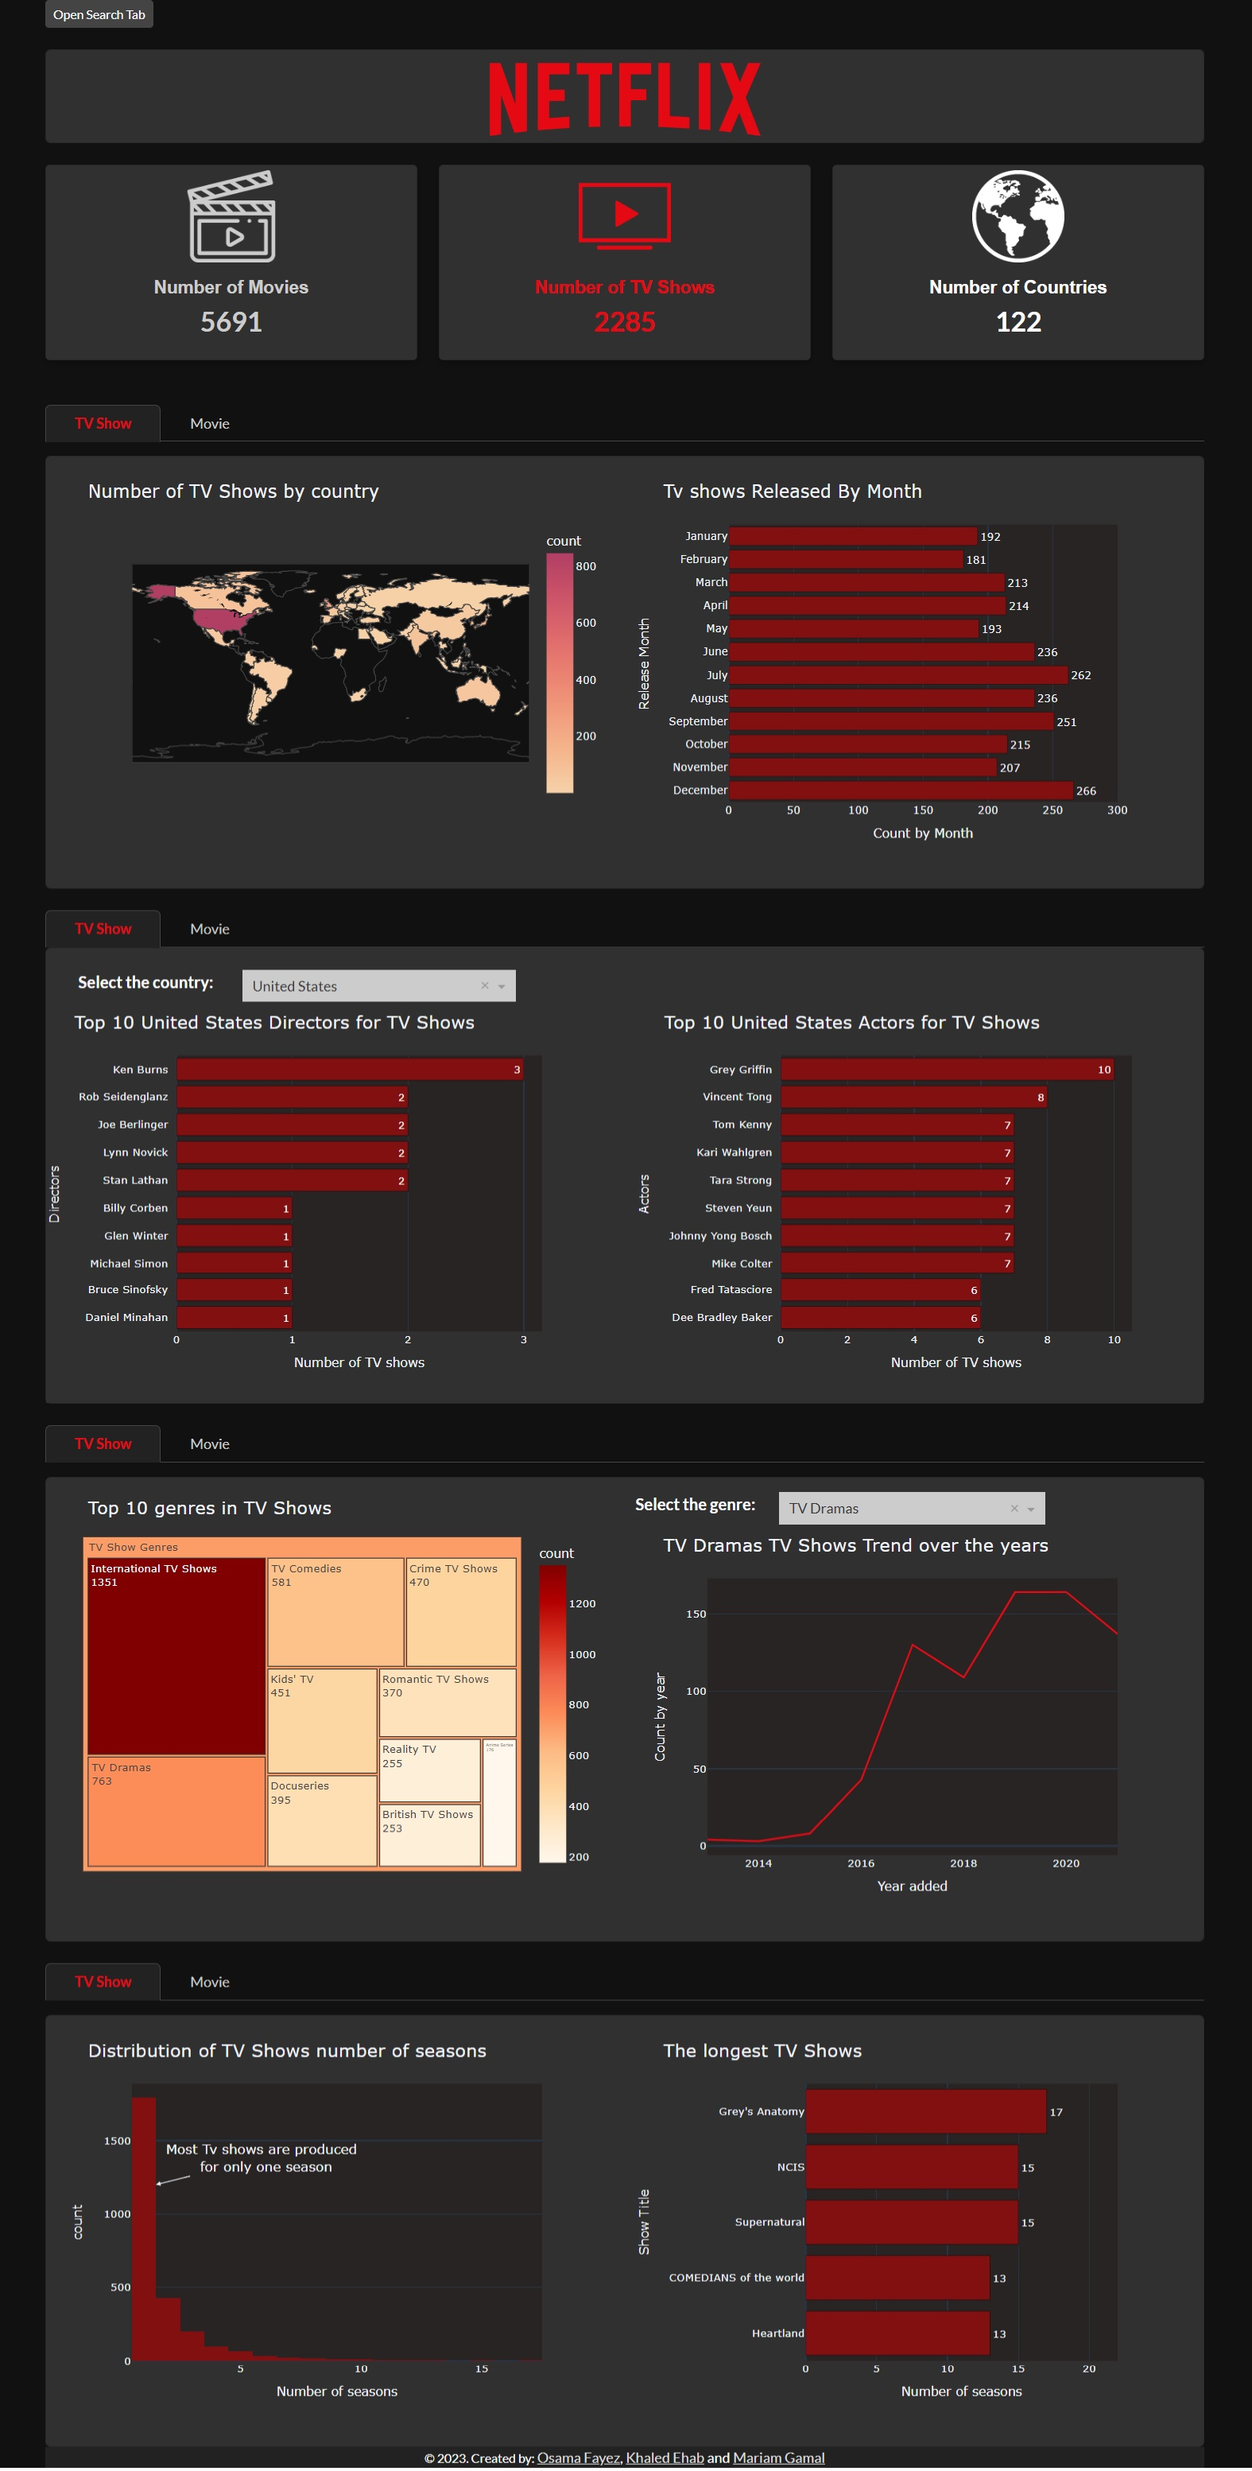
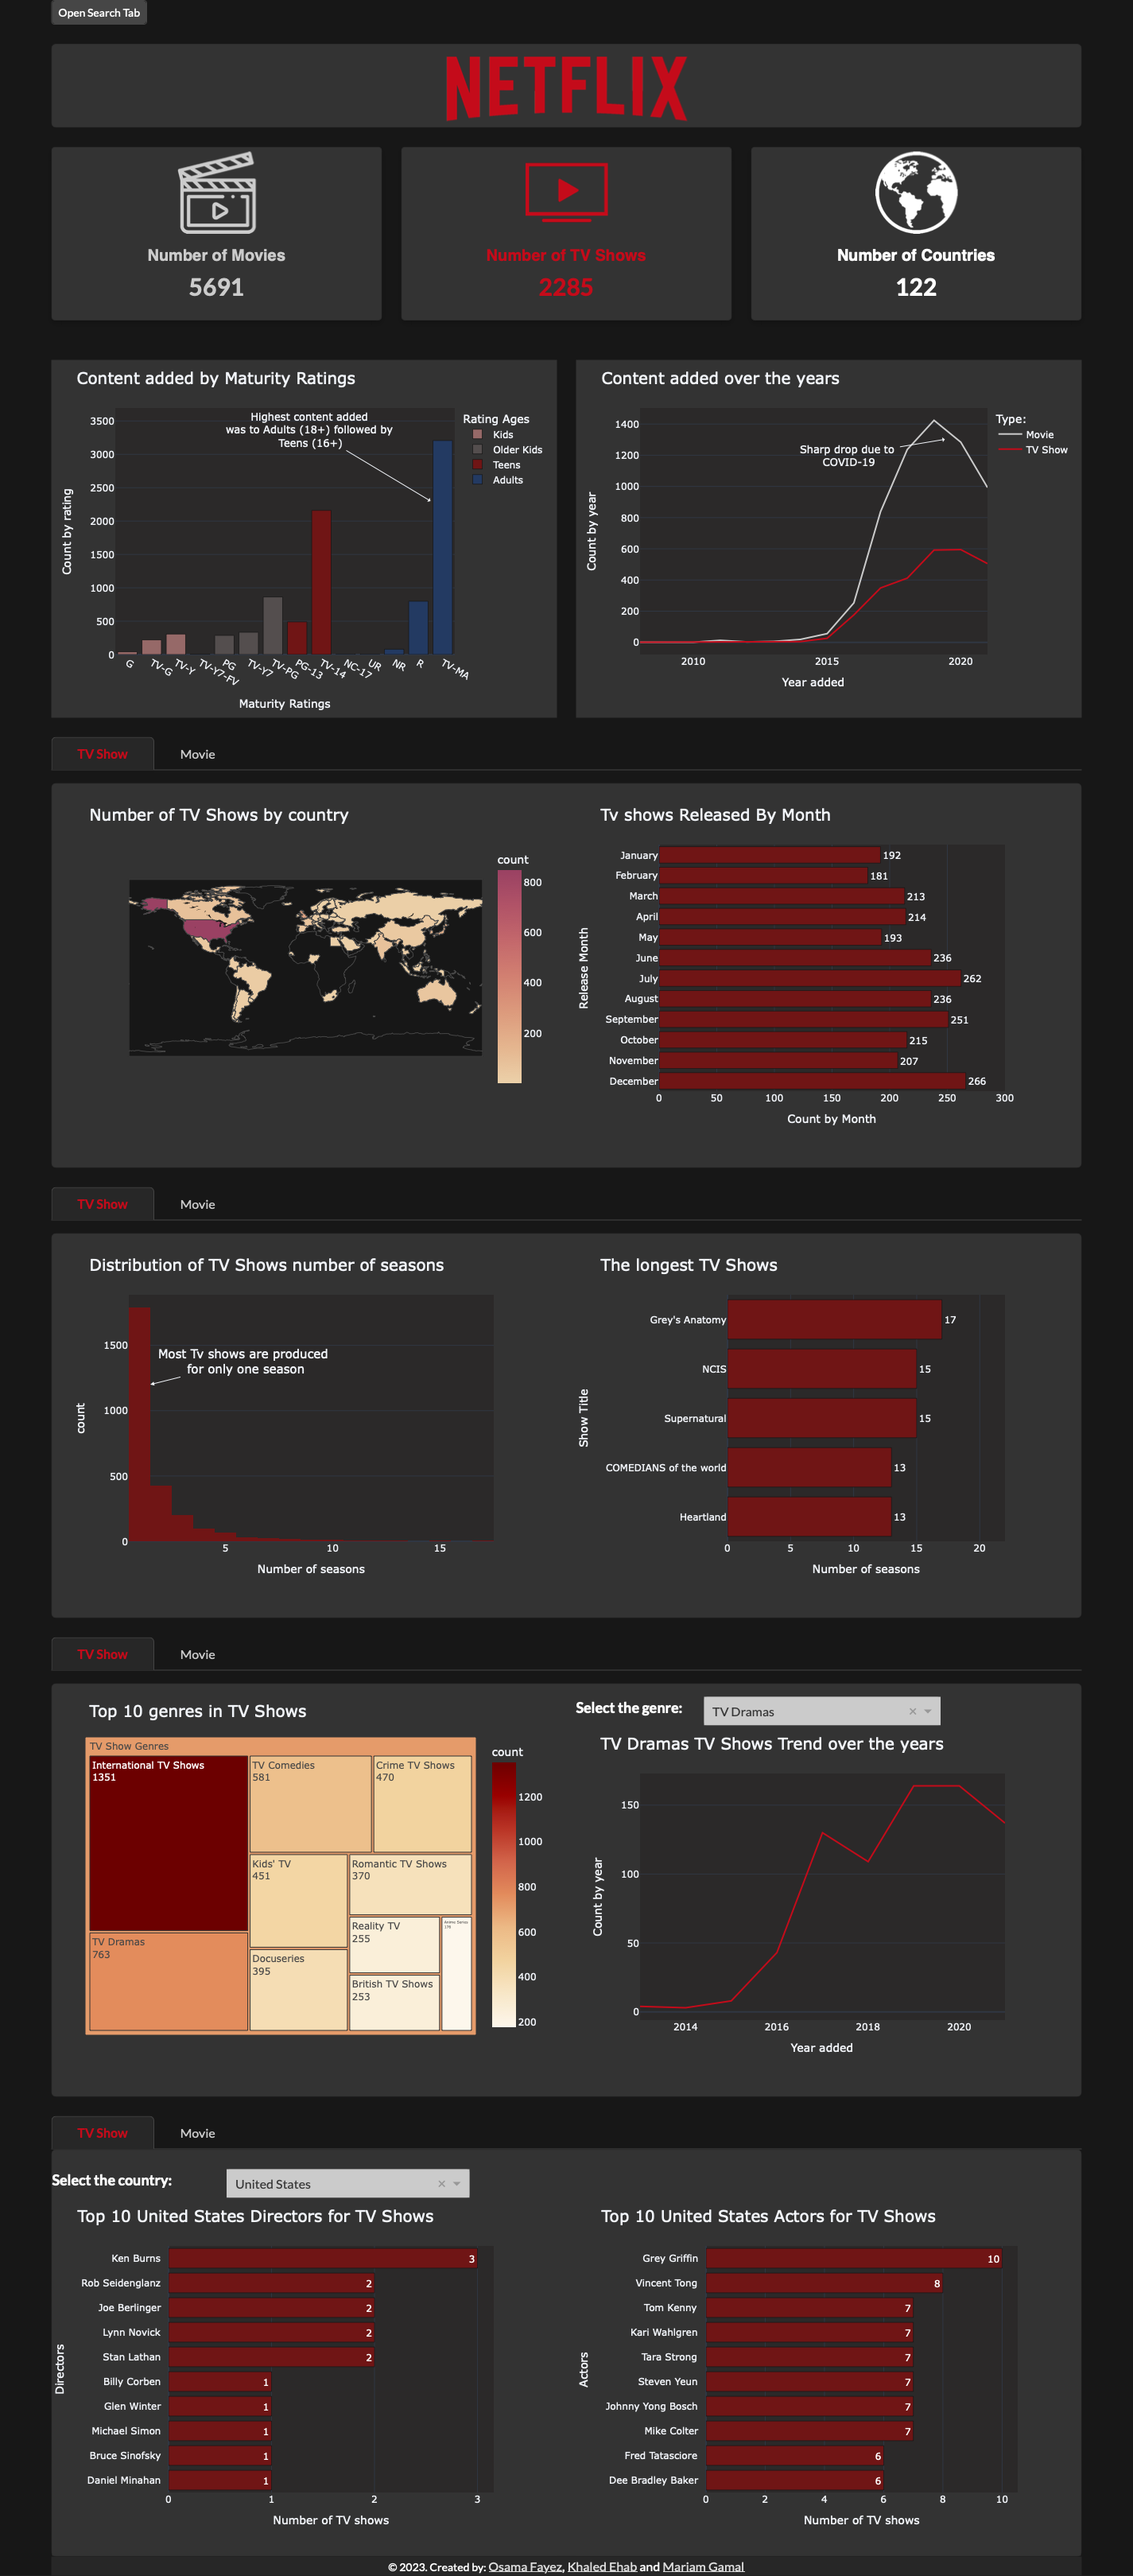
Add files via upload

diff --git a/src/graphs/actors_with_most_content.py b/src/graphs/actors_with_most_content.py
@@ -2,14 +2,12 @@ from const import *
 import plotly.graph_objects as go
 import plotly.express as px
 from collections import Counter
-from dash_bootstrap_templates import load_figure_template
 
 df = df.copy(deep=True)
-load_figure_template("DARKLY")
 
 
 def actors_with_most_content(country, type_="TV Show"):
-    res = df[(df["cast"] != "Missing") & (df["type"] == type_)].copy(deep=True)
+    res = df[(df["cast"] != "Missing") & (df["type"] == type_)]
     res["from_country"] = res["country"].apply(
         lambda x: 1 if country.lower() in x.lower() else 0
     )
@@ -20,26 +18,27 @@ def actors_with_most_content(country, type_="TV Show"):
     labels, values = [tag[0] + "  " for tag in tags], [tag[1] for tag in tags]
 
     if not labels or not values:
-        fig = go.Figure(template='plotly_dark')
+        fig = go.Figure()
         fig.add_annotation(
             x=2.5,
             y=1.5,
             text=f"No available actors names for {country}",
-            font=dict(size=20),
+            font=dict(size=20, color='white'),
             showarrow=False,
         )
+
         fig.update_layout(
-            xaxis=dict(showgrid=False),
-            yaxis=dict(showgrid=False),
+            xaxis=dict(showgrid=False, color='white', zeroline=False),
+            yaxis=dict(showgrid=False, color='white', zeroline=False),
             paper_bgcolor='rgba(48,48,48,1.000)',
             plot_bgcolor="rgba(40,36,36,1.000)",
         )
+
         return fig
 
     if type_ == "Movie":
         color = MOV_COLOR
         x_label = "Number of movies"
-
     else:
         color = SHOW_COLOR
         x_label = "Number of TV shows"

diff --git a/src/graphs/directors_with_most_content.py b/src/graphs/directors_with_most_content.py
@@ -2,14 +2,12 @@ from const import *
 import plotly.graph_objects as go
 import plotly.express as px
 from collections import Counter
-from dash_bootstrap_templates import load_figure_template
 
 df = df.copy(deep=True)
-load_figure_template("DARKLY")
 
 
 def directors_with_most_content(country, type_="TV Show"):
-    res = df[(df["director"] != "Missing") & (df["type"] == type_)].copy(deep=True)
+    res = df[(df["director"] != "Missing") & (df["type"] == type_)]
     res["from_country"] = res["country"].apply(
         lambda x: 1 if country.lower() in x.lower() else 0
     )
@@ -20,22 +18,24 @@ def directors_with_most_content(country, type_="TV Show"):
     labels, values = [tag[0] + "  " for tag in tags], [tag[1] for tag in tags]
 
     if not labels or not values:
-        fig = go.Figure(template='plotly_dark')
+        fig = go.Figure()
 
         fig.add_annotation(
             x=2.5,
             y=1.5,
             text=f"No available directors names for {country}",
-            font=dict(size=20),
+            font=dict(size=20, color='white'),
             showarrow=False,
         )
 
         fig.update_layout(
-            xaxis=dict(showgrid=False),
-            yaxis=dict(showgrid=False),
+            xaxis=dict(showgrid=False, color='white', zeroline=False),
+            yaxis=dict(showgrid=False, color='white', zeroline=False),
             paper_bgcolor='rgba(48,48,48,1.000)',
             plot_bgcolor="rgba(40,36,36,1.000)",
         )
+
+
         return fig
 
     if type_ == "Movie":

diff --git a/src/components/layout.py b/src/components/layout.py
@@ -31,11 +31,11 @@ def create_layout(app):
                 html.Br(),
                 country_month.country_month_tabs(app),
                 html.Br(),
-                directors_actors.directors_actors_tabs(app),
+                dist_longest.dist_longest_tabs(app),
                 html.Br(),
                 treemap_genre.treemap_elem(app),
                 html.Br(),
-                dist_longest.dist_longest_tabs(app),
+                directors_actors.directors_actors_tabs(app),
                 footer.footer(app)
             ]
         ),

diff --git a/src/graphs/content_by_rating.py b/src/graphs/content_by_rating.py
@@ -1,12 +1,11 @@
-import wrangle
 from const import *
-from dash_bootstrap_templates import load_figure_template
+import pandas as pd
+import plotly.express as px
 
 df = df.copy(deep=True)
-load_figure_template("DARKLY")
 
 
-def content_by_rating(self):
+def content_by_rating():
     res = (
         df.groupby(["rating"])
         .size()

diff --git a/netflix_project.py b/netflix_project.py
@@ -1,0 +1,14 @@
+
+import dash_bootstrap_components as dbc
+from dash import Dash
+from src.components.layout import create_layout
+
+def main() -> None:
+    app = Dash(external_stylesheets=[dbc.themes.DARKLY], title="Netflix Dashboard")
+    server = app.server
+
+    app.layout = create_layout(app)
+    app.run()
+
+
+main()

diff --git a/src/components/rating_year.py b/src/components/rating_year.py
@@ -1,5 +1,7 @@
-from ..graphs import content_by_rating, content_by_year
-
+from ..graphs.content_by_rating import content_by_rating
+from ..graphs.content_by_year import content_by_year
+import dash_bootstrap_components as dbc
+from dash import dcc
 
 def rating_year(app):
     content_by_rating_element = dbc.Col(

diff --git a/src/graphs/treemap.py b/src/graphs/treemap.py
@@ -3,11 +3,8 @@ import plotly.express as px
 import pandas as pd
 from collections import Counter
 import plotly.express as px
-from dash_bootstrap_templates import load_figure_template
-
 
 df = df.copy(deep=True)
-load_figure_template("DARKLY")
 
 
 def treemap_graph(type_):

diff --git a/src/graphs/production_by_country.py b/src/graphs/production_by_country.py
@@ -1,12 +1,9 @@
-import wrangle
 from const import *
 import pandas as pd
 import plotly.express as px
-from dash_bootstrap_templates import load_figure_template
 
 
 df = df.copy(deep=True)
-load_figure_template("DARKLY")
 
 
 def production_by_country(type_):

diff --git a/src/graphs/production_by_month.py b/src/graphs/production_by_month.py
@@ -1,11 +1,8 @@
-import wrangle
 from const import *
 import plotly.express as px
-from dash_bootstrap_templates import load_figure_template
 
 
 df = df.copy(deep=True)
-load_figure_template("DARKLY")
 
 
 def production_by_month(type_="TV Show"):

diff --git a/src/graphs/dist_of_length.py b/src/graphs/dist_of_length.py
@@ -1,10 +1,8 @@
 import wrangle
 from const import *
 import plotly.express as px
-from dash_bootstrap_templates import load_figure_template
 
 df = df.copy(deep=True)
-load_figure_template("DARKLY")
 
 
 def dist_of_length(type_="TV Show"):

diff --git a/src/graphs/content_by_year.py b/src/graphs/content_by_year.py
@@ -1,9 +1,7 @@
-import wrangle
 from const import *
-from dash_bootstrap_templates import load_figure_template
+import plotly.express as px
 
 df = df.copy(deep=True)
-load_figure_template("DARKLY")
 
 
 def content_by_year():

diff --git a/src/graphs/show_longest_by_type.py b/src/graphs/show_longest_by_type.py
@@ -1,10 +1,8 @@
 from const import *
 import plotly.express as px
-from dash_bootstrap_templates import load_figure_template
 
 
 df = df.copy(deep=True)
-load_figure_template("DARKLY")
 
 
 def show_longest_by_type(type_):
